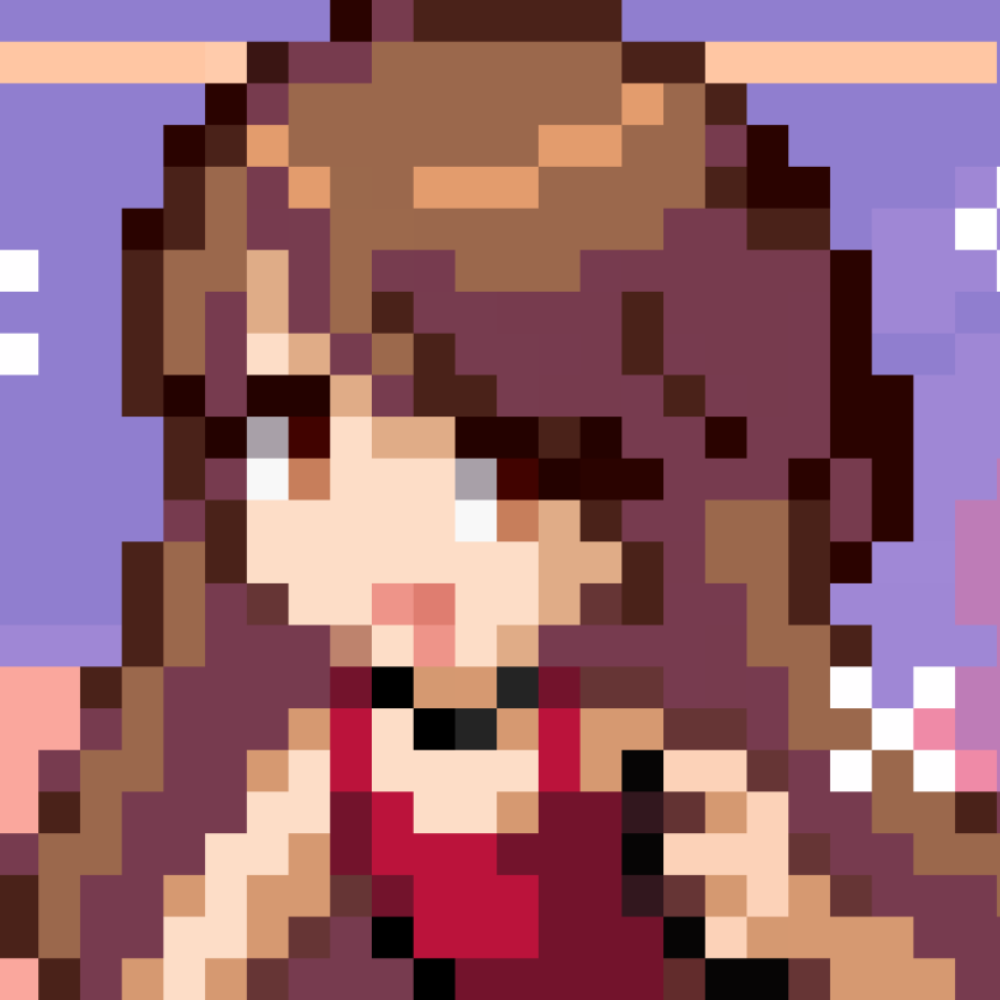
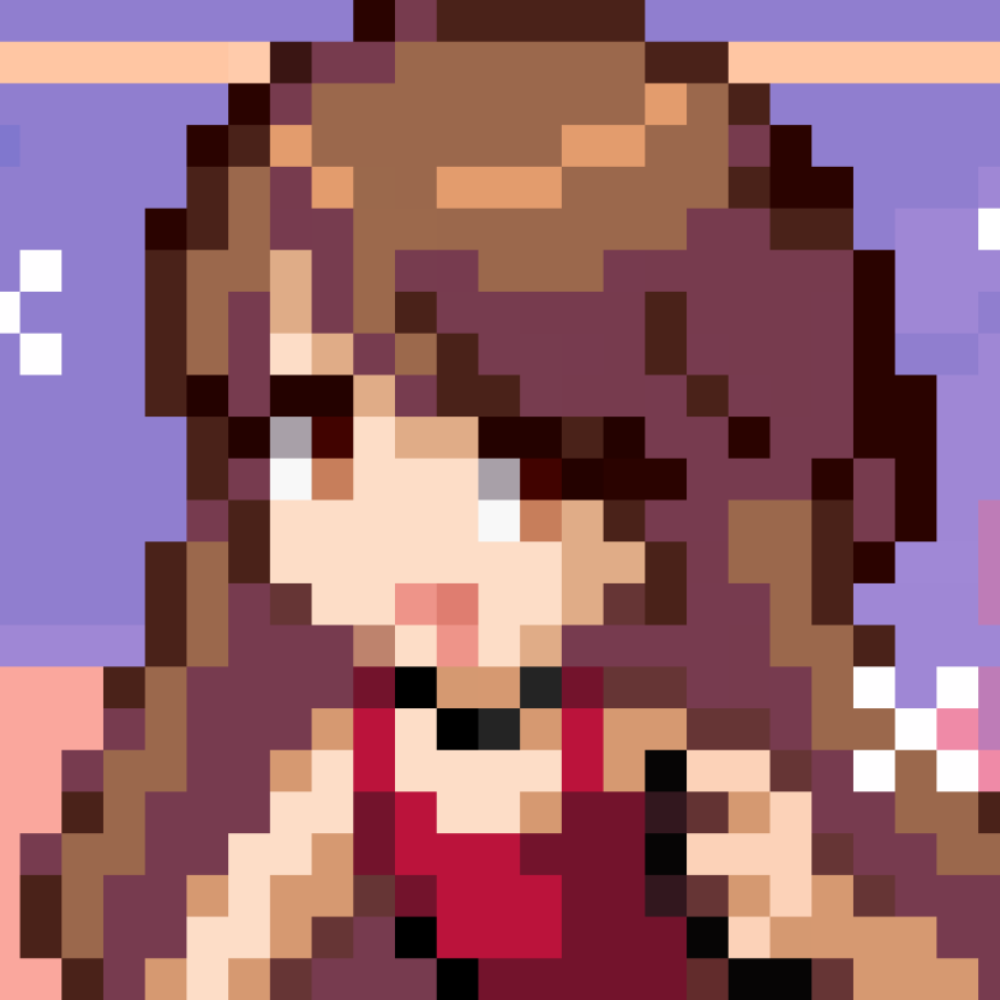
carousel2

diff --git a/src/app/page.js b/src/app/page.js
@@ -42,6 +42,19 @@ export default function Home() {
       description: "Clip Studio Paint, Photoshop"
     },
     {
+      path: "/images/main/main11.gif",
+      url: "/work/performance",
+      title: "At Our Parting",
+      description: "Piano, Cello"
+    },
+    
+    {
+      path: "/images/main/main10.gif",
+      url: "/work/cooking",
+      title: "Beef Wellington",
+      description: "Tenderloin steak wrapped in mushroom duxelles, prosciutto, and puff pastry"
+    },
+    {
       path: "/images/main/main2.gif",
       url: "/work/illustration",
       title: "Goodbye to a World",
@@ -56,7 +69,7 @@ export default function Home() {
     {
       path: "/images/main/main4.png",
       url: "/work/cooking",
-      title: "Salmon Sushi Pumpkins",
+      title: "Salmon Sashimi Pumpkins",
       description: "Sushi rice wrapped in raw salmon, with a green pepper stem"
     },
     {
@@ -71,6 +84,7 @@ export default function Home() {
       title: "Nayu",
       description: "Paint Tool SAI"
     },
+    
     {
       path: "/images/main/main7.png",
       url: "/work/pixels",
@@ -78,11 +92,24 @@ export default function Home() {
       description: "Paint Tool SAI"
     },
     {
+      path: "/images/main/main12.gif",
+      url: "/work/composition",
+      title: "pretty planetarium",
+      description: "Beepbox"
+    },
+    {
       path: "/images/main/main8.png",
       url: "/work/cooking",
       title: "Ricotta Sourdough Bruschetta",
       description: "Toasted sourdough topped with ricotta, diced tomato bruschetta, fresh basil, and balsamic glaze"
-    }
+    },
+    {
+      path: "/images/main/main9.gif",
+      url: "/work/illustration",
+      title: "OMORI",
+      description: "Paint Tool SAI, Premiere Pro"
+    },
+    
   ]
 
   return (

diff --git a/src/app/components/slideshow2.css b/src/app/components/slideshow2.css
@@ -33,7 +33,7 @@
   min-width: 0;
   padding-left: var(--slide-spacing);
 
-  opacity: 0.3;
+  opacity: 0.35;
   filter: saturate(1);
   transition: opacity 250ms ease, filter 250ms ease;
 }

diff --git a/src/app/components/slideshow2.js b/src/app/components/slideshow2.js
@@ -15,7 +15,7 @@ export default function Slideshow({ images = [] }) {
       align: "center",
       containScroll: false,
     },
-    [Autoplay({ stopOnInteraction: false, delay: 5555 })]
+    [Autoplay({ stopOnInteraction: false, delay: 5000 })]
   );
 
   const onSelect = useCallback(() => {